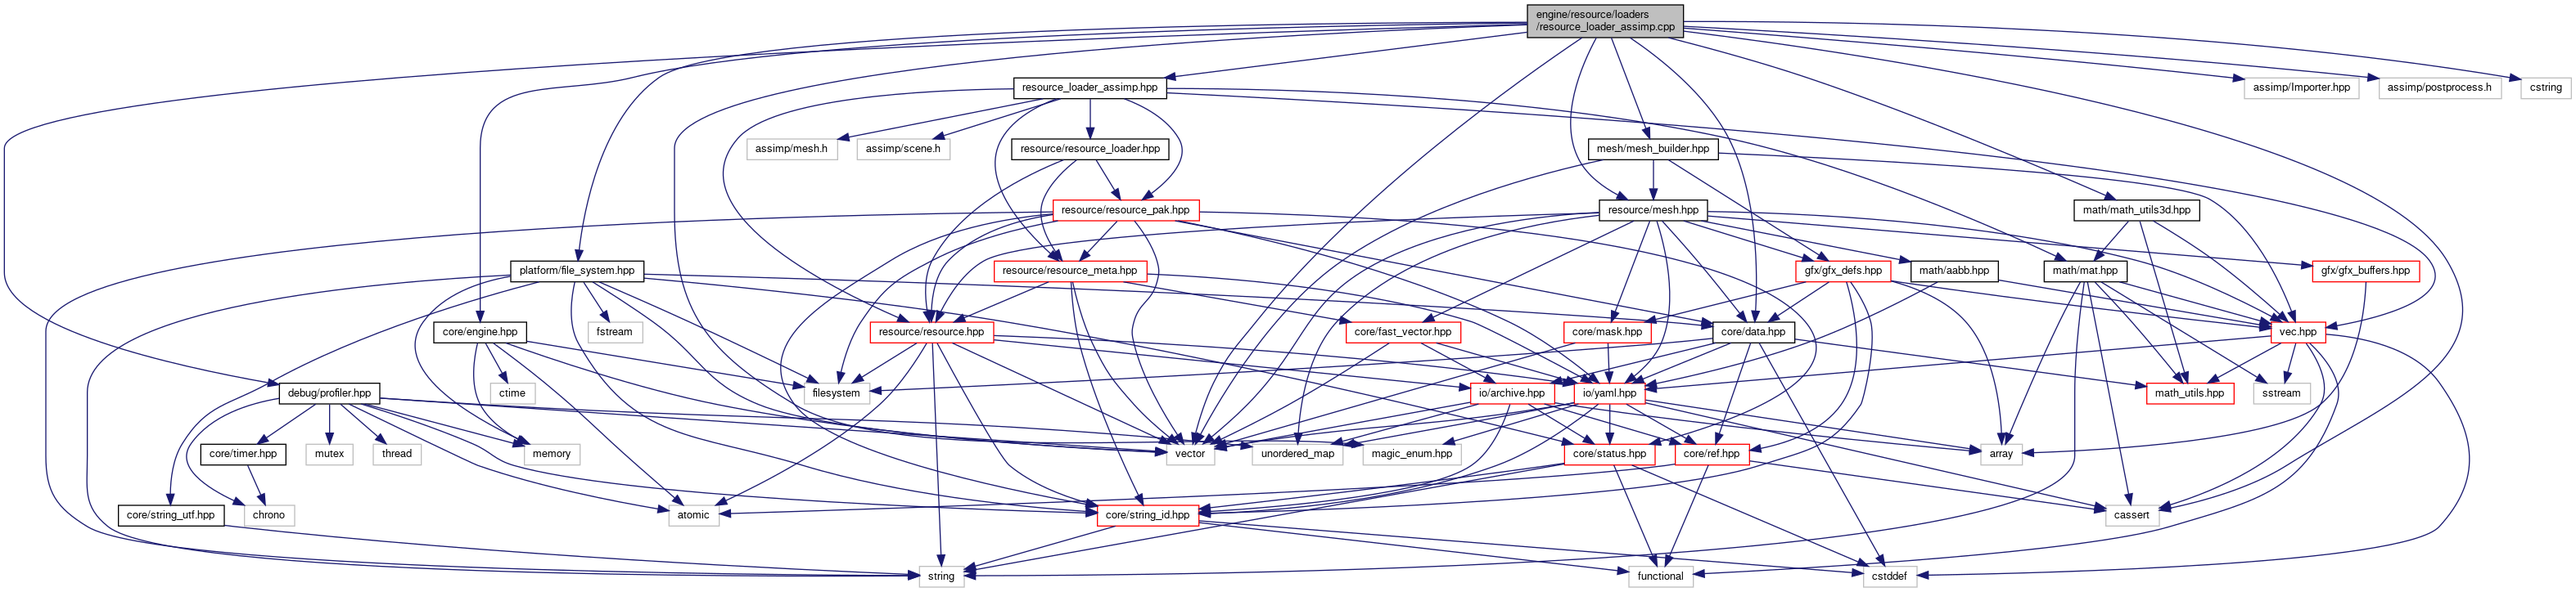
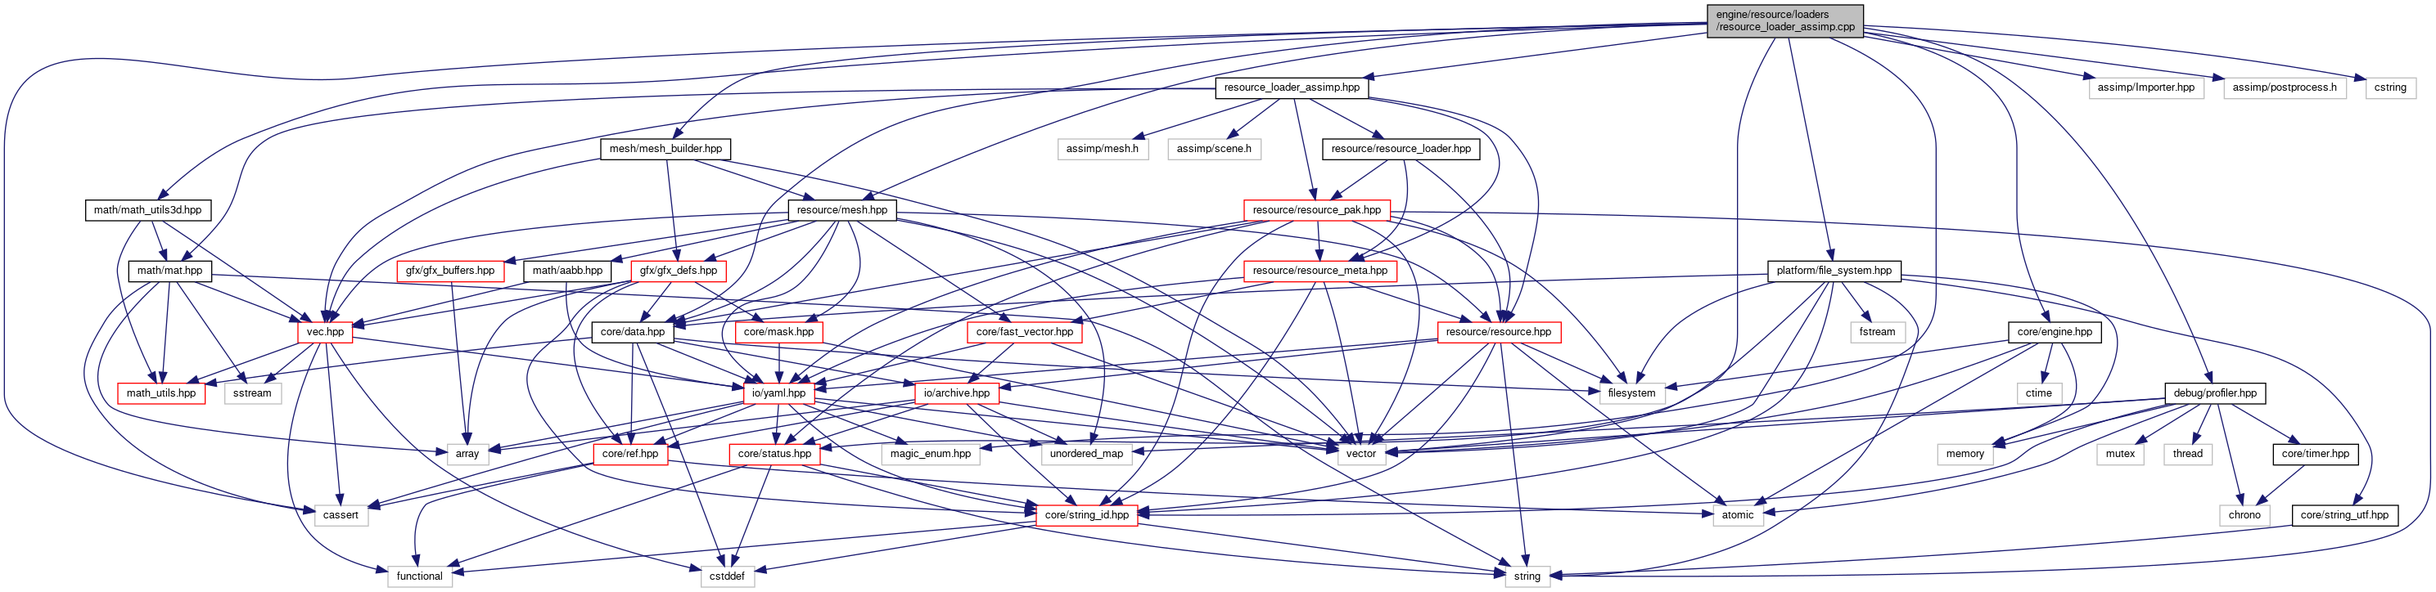
deploy: 95d8bdaab64457f2279fdd02c62794628c8a84a8

diff --git a/resource__loader__assimp_8cpp.html b/resource__loader__assimp_8cpp.html
@@ -77,8 +77,8 @@ $(function() {
 <code>#include &quot;<a class="el" href="core_2engine_8hpp_source.html">core/engine.hpp</a>&quot;</code><br />
 <code>#include &quot;<a class="el" href="profiler_8hpp_source.html">debug/profiler.hpp</a>&quot;</code><br />
 <code>#include &quot;<a class="el" href="math__utils3d_8hpp_source.html">math/math_utils3d.hpp</a>&quot;</code><br />
-<code>#include &quot;<a class="el" href="file__system_8hpp_source.html">platform/file_system.hpp</a>&quot;</code><br />
 <code>#include &quot;<a class="el" href="mesh__builder_8hpp_source.html">mesh/mesh_builder.hpp</a>&quot;</code><br />
+<code>#include &quot;<a class="el" href="file__system_8hpp_source.html">platform/file_system.hpp</a>&quot;</code><br />
 <code>#include &quot;<a class="el" href="mesh_8hpp_source.html">resource/mesh.hpp</a>&quot;</code><br />
 <code>#include &lt;assimp/Importer.hpp&gt;</code><br />
 <code>#include &lt;assimp/postprocess.h&gt;</code><br />
@@ -91,56 +91,56 @@ Include dependency graph for resource_loader_assimp.cpp:</div>
 <div class="dyncontent">
 <div class="center"><img src="resource__loader__assimp_8cpp__incl.png" border="0" usemap="#aengine_2resource_2loaders_2resource__loader__assimp_8cpp" alt=""/></div>
 <map name="aengine_2resource_2loaders_2resource__loader__assimp_8cpp" id="aengine_2resource_2loaders_2resource__loader__assimp_8cpp">
-<area shape="rect" title=" " alt="" coords="1866,5,2057,47"/>
-<area shape="rect" href="resource__loader__assimp_8hpp.html" title=" " alt="" coords="1239,95,1425,121"/>
-<area shape="rect" title=" " alt="" coords="2573,617,2638,644"/>
-<area shape="rect" title=" " alt="" coords="1665,543,1785,569"/>
-<area shape="rect" title=" " alt="" coords="1425,543,1484,569"/>
-<area shape="rect" href="data_8hpp.html" title=" " alt="" coords="2093,393,2193,420"/>
-<area shape="rect" href="core_2engine_8hpp.html" title=" " alt="" coords="530,393,643,420"/>
-<area shape="rect" href="profiler_8hpp.html" title=" " alt="" coords="341,468,464,495"/>
-<area shape="rect" href="math__utils3d_8hpp.html" title=" " alt="" coords="2534,244,2687,271"/>
-<area shape="rect" href="file__system_8hpp.html" title=" " alt="" coords="624,319,787,345"/>
-<area shape="rect" href="mesh__builder_8hpp.html" title=" " alt="" coords="1941,169,2099,196"/>
-<area shape="rect" href="mesh_8hpp.html" title=" " alt="" coords="1954,244,2086,271"/>
-<area shape="rect" title=" " alt="" coords="2742,95,2882,121"/>
-<area shape="rect" title=" " alt="" coords="2907,95,3056,121"/>
-<area shape="rect" title=" " alt="" coords="3080,95,3141,121"/>
-<area shape="rect" href="mat_8hpp.html" title=" " alt="" coords="2497,319,2599,345"/>
-<area shape="rect" href="vec_8hpp.html" title=" " alt="" coords="2775,393,2841,420"/>
-<area shape="rect" href="resource_8hpp.html" title=" " alt="" coords="1063,393,1214,420"/>
-<area shape="rect" href="resource__loader_8hpp.html" title=" " alt="" coords="1236,169,1428,196"/>
-<area shape="rect" href="resource__meta_8hpp.html" title=" " alt="" coords="1215,319,1401,345"/>
-<area shape="rect" href="resource__pak_8hpp.html" title=" " alt="" coords="1287,244,1465,271"/>
-<area shape="rect" title=" " alt="" coords="913,169,1023,196"/>
-<area shape="rect" title=" " alt="" coords="1047,169,1161,196"/>
-<area shape="rect" title=" " alt="" coords="2420,543,2471,569"/>
-<area shape="rect" title=" " alt="" coords="2753,468,2823,495"/>
-<area shape="rect" title=" " alt="" coords="1123,692,1178,719"/>
-<area shape="rect" href="math__utils_8hpp.html" title=" " alt="" coords="2623,468,2729,495"/>
-<area shape="rect" href="yaml_8hpp.html" title=" " alt="" coords="1923,468,2010,495"/>
-<area shape="rect" title=" " alt="" coords="1990,692,2069,719"/>
-<area shape="rect" title=" " alt="" coords="2277,692,2342,719"/>
-<area shape="rect" href="ref_8hpp.html" title=" " alt="" coords="2047,543,2137,569"/>
-<area shape="rect" href="status_8hpp.html" title=" " alt="" coords="1911,543,2022,569"/>
-<area shape="rect" href="string__id_8hpp.html" title=" " alt="" coords="1341,617,1465,644"/>
-<area shape="rect" title=" " alt="" coords="1530,543,1641,569"/>
-<area shape="rect" title=" " alt="" coords="817,617,879,644"/>
-<area shape="rect" href="archive_8hpp.html" title=" " alt="" coords="1797,468,1899,495"/>
-<area shape="rect" title=" " alt="" coords="983,468,1063,495"/>
-<area shape="rect" href="fast__vector_8hpp.html" title=" " alt="" coords="1645,393,1785,420"/>
-<area shape="rect" title=" " alt="" coords="599,468,654,495"/>
-<area shape="rect" title=" " alt="" coords="641,543,709,569"/>
-<area shape="rect" href="timer_8hpp.html" title=" " alt="" coords="245,543,349,569"/>
-<area shape="rect" title=" " alt="" coords="299,617,360,644"/>
-<area shape="rect" title=" " alt="" coords="374,543,431,569"/>
-<area shape="rect" title=" " alt="" coords="456,543,515,569"/>
-<area shape="rect" href="string__utf_8hpp.html" title=" " alt="" coords="145,617,274,644"/>
-<area shape="rect" title=" " alt="" coords="719,393,785,420"/>
-<area shape="rect" href="gfx__defs_8hpp.html" title=" " alt="" coords="2194,319,2310,345"/>
-<area shape="rect" href="mask_8hpp.html" title=" " alt="" coords="1911,393,2017,420"/>
-<area shape="rect" href="gfx__buffers_8hpp.html" title=" " alt="" coords="2825,319,2956,345"/>
-<area shape="rect" href="aabb_8hpp.html" title=" " alt="" coords="2335,319,2441,345"/>
+<area shape="rect" title=" " alt="" coords="2086,5,2277,47"/>
+<area shape="rect" href="resource__loader__assimp_8hpp.html" title=" " alt="" coords="1485,95,1672,121"/>
+<area shape="rect" title=" " alt="" coords="385,617,450,644"/>
+<area shape="rect" title=" " alt="" coords="1077,543,1197,569"/>
+<area shape="rect" title=" " alt="" coords="1635,543,1693,569"/>
+<area shape="rect" href="data_8hpp.html" title=" " alt="" coords="723,393,823,420"/>
+<area shape="rect" href="core_2engine_8hpp.html" title=" " alt="" coords="2454,393,2567,420"/>
+<area shape="rect" href="profiler_8hpp.html" title=" " alt="" coords="2645,468,2768,495"/>
+<area shape="rect" href="math__utils3d_8hpp.html" title=" " alt="" coords="105,244,258,271"/>
+<area shape="rect" href="mesh__builder_8hpp.html" title=" " alt="" coords="734,169,893,196"/>
+<area shape="rect" href="mesh_8hpp.html" title=" " alt="" coords="963,244,1095,271"/>
+<area shape="rect" href="file__system_8hpp.html" title=" " alt="" coords="2160,319,2323,345"/>
+<area shape="rect" title=" " alt="" coords="2553,95,2693,121"/>
+<area shape="rect" title=" " alt="" coords="2717,95,2867,121"/>
+<area shape="rect" title=" " alt="" coords="2891,95,2952,121"/>
+<area shape="rect" href="mat_8hpp.html" title=" " alt="" coords="157,319,259,345"/>
+<area shape="rect" href="vec_8hpp.html" title=" " alt="" coords="364,393,431,420"/>
+<area shape="rect" href="resource_8hpp.html" title=" " alt="" coords="1757,393,1907,420"/>
+<area shape="rect" href="resource__loader_8hpp.html" title=" " alt="" coords="1616,169,1808,196"/>
+<area shape="rect" href="resource__meta_8hpp.html" title=" " alt="" coords="1520,319,1707,345"/>
+<area shape="rect" href="resource__pak_8hpp.html" title=" " alt="" coords="1520,244,1699,271"/>
+<area shape="rect" title=" " alt="" coords="1293,169,1403,196"/>
+<area shape="rect" title=" " alt="" coords="1427,169,1541,196"/>
+<area shape="rect" title=" " alt="" coords="547,543,597,569"/>
+<area shape="rect" title=" " alt="" coords="275,468,344,495"/>
+<area shape="rect" title=" " alt="" coords="1839,692,1894,719"/>
+<area shape="rect" href="math__utils_8hpp.html" title=" " alt="" coords="144,468,251,495"/>
+<area shape="rect" href="yaml_8hpp.html" title=" " alt="" coords="909,468,995,495"/>
+<area shape="rect" title=" " alt="" coords="474,692,553,719"/>
+<area shape="rect" title=" " alt="" coords="857,692,922,719"/>
+<area shape="rect" href="ref_8hpp.html" title=" " alt="" coords="725,543,816,569"/>
+<area shape="rect" href="status_8hpp.html" title=" " alt="" coords="891,543,1002,569"/>
+<area shape="rect" href="string__id_8hpp.html" title=" " alt="" coords="1266,617,1390,644"/>
+<area shape="rect" title=" " alt="" coords="1273,543,1383,569"/>
+<area shape="rect" title=" " alt="" coords="2093,617,2155,644"/>
+<area shape="rect" href="archive_8hpp.html" title=" " alt="" coords="1118,468,1221,495"/>
+<area shape="rect" title=" " alt="" coords="1955,468,2035,495"/>
+<area shape="rect" href="fast__vector_8hpp.html" title=" " alt="" coords="1182,393,1322,420"/>
+<area shape="rect" title=" " alt="" coords="2465,468,2519,495"/>
+<area shape="rect" title=" " alt="" coords="2367,543,2435,569"/>
+<area shape="rect" href="timer_8hpp.html" title=" " alt="" coords="2777,543,2881,569"/>
+<area shape="rect" title=" " alt="" coords="2712,617,2773,644"/>
+<area shape="rect" title=" " alt="" coords="2562,543,2619,569"/>
+<area shape="rect" title=" " alt="" coords="2644,543,2703,569"/>
+<area shape="rect" href="gfx__defs_8hpp.html" title=" " alt="" coords="771,319,887,345"/>
+<area shape="rect" href="mask_8hpp.html" title=" " alt="" coords="899,393,1005,420"/>
+<area shape="rect" href="gfx__buffers_8hpp.html" title=" " alt="" coords="485,319,616,345"/>
+<area shape="rect" href="aabb_8hpp.html" title=" " alt="" coords="640,319,747,345"/>
+<area shape="rect" href="string__utf_8hpp.html" title=" " alt="" coords="2801,617,2930,644"/>
+<area shape="rect" title=" " alt="" coords="2261,393,2328,420"/>
 </map>
 </div>
 </div><table class="memberdecls">
